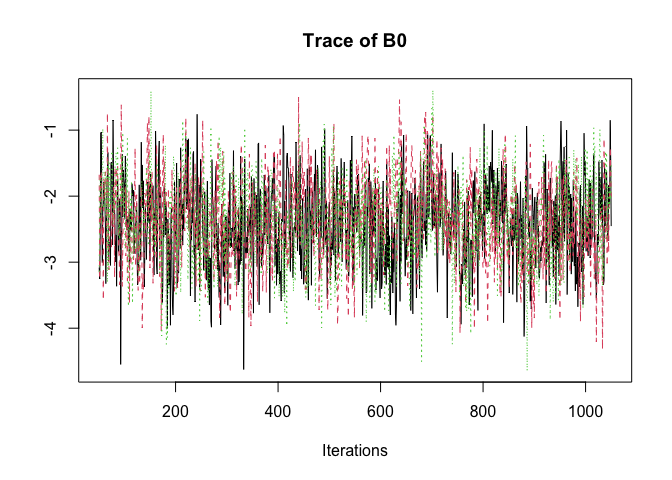
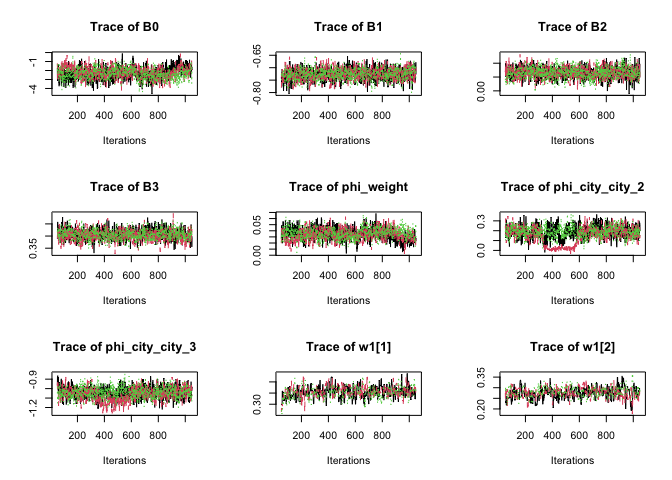
ss

diff --git a/README.md b/README.md
@@ -16,6 +16,8 @@ runjags package.
 
 <br> FGWQSR estimates parameters to the following model:
 
+<br>
+
 $$y_i \sim \text{Bernoulli}(\pi_i) $$
 $$\text{logit}(\pi_i) = c_0+ \sum\limits_{g = 1}^G \gamma_g \bigg( \sum\limits_{k = 1} ^{c_g} w_{g,k} \cdot q_{g,k,i}\bigg) + \sum_{r = 1}^R \phi_rz_{r,i} $$
 where
@@ -351,7 +353,7 @@ summary(fgwqsr_fit)
 #> 
 #> Significance Codes: <0.001 '***' <0.01 '**' <0.05 '*' <0.10 '.' 
 #> 
-#> Total runtime for FGWQSR:  1.21 minutes on 10 cores.
+#> Total runtime for FGWQSR:  1.2 minutes on 10 cores.
 ```
 
 <br> We can compare the true underlying group indices and chemical
@@ -520,7 +522,7 @@ summary(fgwqsr_fit_adj)
 #> 
 #> Significance Codes: <0.001 '***' <0.01 '**' <0.05 '*' <0.10 '.' 
 #> 
-#> Total runtime for FGWQSR:  1.13 minutes on 10 cores.
+#> Total runtime for FGWQSR:  1.15 minutes on 10 cores.
 ```
 
 <br>
@@ -600,7 +602,7 @@ bgwqsr_fit = bgwqsr(formula = mod_formula_adj,
 #> Calling 3 simulations using the parallel method...
 #> Following the progress of chain 1 (the program will wait for all chains
 #> to finish before continuing):
-#> Welcome to JAGS 4.3.2 (official binary) on Thu Jul 13 16:39:27 2023
+#> Welcome to JAGS 4.3.2 (official binary) on Thu Jul 13 16:53:43 2023
 #> JAGS is free software and comes with ABSOLUTELY NO WARRANTY
 #> Loading module: basemod: ok
 #> Loading module: bugs: ok
@@ -641,49 +643,49 @@ the summaries object from the bgwqsr model.
 ``` r
 bgwqsr_fit$model$summaries
 #>                      Lower95      Median    Upper95        Mean          SD
-#> B0              -3.66123e+00 -2.39290500 -1.1861800 -2.39739069 0.634468040
-#> B1              -7.72786e-01 -0.72645600 -0.6800990 -0.72660810 0.023277413
-#> B2               2.37607e-02  0.06537670  0.1003650  0.06536587 0.019642886
-#> B3               3.63499e-01  0.40572200  0.4474280  0.40561747 0.021839322
-#> phi_weight       1.89506e-02  0.03606285  0.0550746  0.03618030 0.009279348
-#> phi_city_city_2  7.34225e-02  0.18715100  0.3012290  0.18582929 0.058262250
-#> phi_city_city_3 -1.15691e+00 -1.04109500 -0.9208620 -1.04254740 0.060202532
-#> w1[1]            3.04382e-01  0.35634400  0.4028740  0.35519930 0.025022040
-#> w1[2]            2.24530e-01  0.27524900  0.3275130  0.27527586 0.027174372
-#> w1[3]            2.73493e-01  0.32465400  0.3750100  0.32459352 0.025632267
-#> w1[4]            1.42449e-03  0.01984735  0.0530367  0.02323464 0.016088007
-#> w1[5]            1.12253e-03  0.01720880  0.0528875  0.02169668 0.016733905
-#> w2[1]            3.67407e-05  0.06011960  0.4136620  0.11226925 0.141633116
-#> w2[2]            2.26175e-01  0.64955500  0.9632770  0.62196864 0.215645672
-#> w2[3]            3.07270e-04  0.06649090  0.4829810  0.13660496 0.159574279
-#> w2[4]            2.15090e-03  0.07107550  0.4630890  0.12915714 0.145145484
-#> w3[1]            2.20125e-01  0.31116300  0.4052840  0.31066550 0.047176347
-#> w3[2]            2.19036e-01  0.31893700  0.4000210  0.31852408 0.045626503
-#> w3[3]            2.54194e-01  0.34016300  0.4388580  0.34185267 0.048814994
-#> w3[4]            3.60342e-05  0.01048015  0.0532486  0.01632025 0.018750977
-#> w3[5]            4.91520e-04  0.00627269  0.0457712  0.01263749 0.015396609
-#>                 Mode        MCerr MC%ofSD SSeff        AC.10      psrf
-#> B0                NA 0.0194944981     3.1  1059  0.073421818 1.0007923
-#> B1                NA 0.0006149110     2.6  1433  0.009592373 1.0073064
-#> B2                NA 0.0005063518     2.6  1505  0.032182820 1.0016705
-#> B3                NA 0.0006025792     2.8  1314 -0.003453728 1.0031507
-#> phi_weight        NA 0.0002872937     3.1  1043  0.076869836 1.0007030
-#> phi_city_city_2   NA 0.0021934538     3.8   706  0.077124829 1.0014526
-#> phi_city_city_3   NA 0.0017505307     2.9  1183  0.016120407 0.9997214
-#> w1[1]             NA 0.0014826534     5.9   285  0.139924144 1.0098148
-#> w1[2]             NA 0.0016370561     6.0   276  0.254728423 1.1046637
-#> w1[3]             NA 0.0013094884     5.1   383  0.143430848 1.0142796
-#> w1[4]             NA 0.0028510016    17.7    32  0.824486353 1.3104306
-#> w1[5]             NA 0.0035531520    21.2    22  0.859320780 1.4968418
-#> w2[1]             NA 0.0309624037    21.9    21  0.826824935 1.7068957
-#> w2[2]             NA 0.0370243826    17.2    34  0.806995509 1.0722833
-#> w2[3]             NA 0.0260563107    16.3    38  0.805258053 1.1934215
-#> w2[4]             NA 0.0234176703    16.1    38  0.755691107 1.4542547
-#> w3[1]             NA 0.0034160290     7.2   191  0.286905730 1.0207991
-#> w3[2]             NA 0.0030011662     6.6   231  0.246041668 1.0043634
-#> w3[3]             NA 0.0032776357     6.7   222  0.246060417 1.0017560
-#> w3[4]             NA 0.0028892295    15.4    42  0.818470479 1.4263795
-#> w3[5]             NA 0.0033045455    21.5    22  0.862353513 1.1111806
+#> B0              -3.651920000 -2.27815500 -1.0700100 -2.28266497 0.660029173
+#> B1              -0.771817000 -0.72599650 -0.6790350 -0.72587763 0.023888107
+#> B2               0.027681000  0.06506000  0.1070880  0.06531566 0.020266320
+#> B3               0.363868000  0.40557950  0.4487600  0.40568180 0.021959541
+#> phi_weight       0.017702300  0.03438805  0.0553166  0.03456578 0.009658224
+#> phi_city_city_2  0.000252172  0.18119350  0.2865510  0.17389172 0.073724241
+#> phi_city_city_3 -1.182230000 -1.04730500 -0.9247720 -1.04811690 0.065321807
+#> w1[1]            0.301526000  0.35394100  0.4043110  0.35447934 0.025110695
+#> w1[2]            0.228792000  0.27677100  0.3239400  0.27663721 0.024087736
+#> w1[3]            0.272610000  0.32303200  0.3656150  0.32342540 0.024922922
+#> w1[4]            0.002924070  0.02513750  0.0519143  0.02520196 0.014890445
+#> w1[5]            0.003806210  0.01846310  0.0394350  0.02025609 0.011317820
+#> w2[1]            0.005183060  0.14507250  0.5597240  0.19835967 0.169179303
+#> w2[2]            0.201965000  0.58669200  0.9251560  0.57358199 0.204893546
+#> w2[3]            0.000759610  0.06642060  0.3984120  0.12355657 0.137690018
+#> w2[4]            0.001652330  0.05036820  0.3730860  0.10450176 0.125653074
+#> w3[1]            0.213352000  0.30505950  0.3988060  0.30532584 0.047157307
+#> w3[2]            0.229635000  0.31602700  0.4019810  0.31611886 0.044047605
+#> w3[3]            0.247347000  0.33971300  0.4217930  0.33934420 0.044837968
+#> w3[4]            0.000582802  0.01748110  0.0554424  0.02049139 0.018384662
+#> w3[5]            0.000380900  0.00970993  0.0686573  0.01871971 0.021925203
+#>                 Mode        MCerr MC%ofSD SSeff        AC.10     psrf
+#> B0                NA 0.0391454326     5.9   284  0.165187016 1.012575
+#> B1                NA 0.0006818782     2.9  1227  0.002752647 1.002315
+#> B2                NA 0.0005166076     2.5  1539  0.031775029 1.001713
+#> B3                NA 0.0005955145     2.7  1360 -0.007846648 1.007213
+#> phi_weight        NA 0.0005773885     6.0   280  0.166251889 1.009272
+#> phi_city_city_2   NA 0.0034667307     4.7   452  0.276555205 1.111936
+#> phi_city_city_3   NA 0.0023102811     3.5   799  0.087299442 1.030917
+#> w1[1]             NA 0.0012737224     5.1   389  0.112090940 1.011909
+#> w1[2]             NA 0.0013039205     5.4   341  0.122131798 1.014405
+#> w1[3]             NA 0.0013552112     5.4   338  0.085278262 1.026837
+#> w1[4]             NA 0.0024195588    16.2    38  0.774753459 1.200346
+#> w1[5]             NA 0.0016464006    14.5    47  0.735827443 1.186657
+#> w2[1]             NA 0.0260361292    15.4    42  0.767105172 1.175408
+#> w2[2]             NA 0.0264447075    12.9    60  0.676737610 1.610980
+#> w2[3]             NA 0.0250080142    18.2    30  0.807414212 1.115628
+#> w2[4]             NA 0.0195048118    15.5    42  0.764419086 1.436253
+#> w3[1]             NA 0.0031495200     6.7   224  0.230762019 1.025377
+#> w3[2]             NA 0.0028722974     6.5   235  0.249815408 1.007689
+#> w3[3]             NA 0.0026811067     6.0   280  0.133559098 1.048325
+#> w3[4]             NA 0.0035710523    19.4    27  0.817929266 1.200438
+#> w3[5]             NA 0.0041788292    19.1    28  0.826218678 1.494243
 ```
 
 We can analyze the mixing of the markov chains and corresponding
@@ -691,28 +693,32 @@ autocorrelation plots using functions from the coda package. We will
 output only the first few plots.
 
 ``` r
+par(mfrow = c(3,3))
 coda::traceplot(bgwqsr_fit$model$mcmc) # traceplot
 ```
 
-<img src="man/figures/README-unnamed-chunk-18-1.png" width="100%" /><img src="man/figures/README-unnamed-chunk-18-2.png" width="100%" /><img src="man/figures/README-unnamed-chunk-18-3.png" width="100%" /><img src="man/figures/README-unnamed-chunk-18-4.png" width="100%" /><img src="man/figures/README-unnamed-chunk-18-5.png" width="100%" /><img src="man/figures/README-unnamed-chunk-18-6.png" width="100%" /><img src="man/figures/README-unnamed-chunk-18-7.png" width="100%" /><img src="man/figures/README-unnamed-chunk-18-8.png" width="100%" /><img src="man/figures/README-unnamed-chunk-18-9.png" width="100%" /><img src="man/figures/README-unnamed-chunk-18-10.png" width="100%" /><img src="man/figures/README-unnamed-chunk-18-11.png" width="100%" /><img src="man/figures/README-unnamed-chunk-18-12.png" width="100%" /><img src="man/figures/README-unnamed-chunk-18-13.png" width="100%" /><img src="man/figures/README-unnamed-chunk-18-14.png" width="100%" /><img src="man/figures/README-unnamed-chunk-18-15.png" width="100%" /><img src="man/figures/README-unnamed-chunk-18-16.png" width="100%" /><img src="man/figures/README-unnamed-chunk-18-17.png" width="100%" /><img src="man/figures/README-unnamed-chunk-18-18.png" width="100%" /><img src="man/figures/README-unnamed-chunk-18-19.png" width="100%" /><img src="man/figures/README-unnamed-chunk-18-20.png" width="100%" /><img src="man/figures/README-unnamed-chunk-18-21.png" width="100%" />
+<img src="man/figures/README-unnamed-chunk-18-1.png" width="100%" /><img src="man/figures/README-unnamed-chunk-18-2.png" width="100%" /><img src="man/figures/README-unnamed-chunk-18-3.png" width="100%" />
 
 ``` r
+par(mfrow = c(3,3))
 coda::autocorr.plot(bgwqsr_fit$model$mcmc, auto.layout = F, ask = F) # autocorrelation plot
 ```
 
-<img src="man/figures/README-unnamed-chunk-19-1.png" width="100%" /><img src="man/figures/README-unnamed-chunk-19-2.png" width="100%" /><img src="man/figures/README-unnamed-chunk-19-3.png" width="100%" /><img src="man/figures/README-unnamed-chunk-19-4.png" width="100%" /><img src="man/figures/README-unnamed-chunk-19-5.png" width="100%" /><img src="man/figures/README-unnamed-chunk-19-6.png" width="100%" /><img src="man/figures/README-unnamed-chunk-19-7.png" width="100%" /><img src="man/figures/README-unnamed-chunk-19-8.png" width="100%" /><img src="man/figures/README-unnamed-chunk-19-9.png" width="100%" /><img src="man/figures/README-unnamed-chunk-19-10.png" width="100%" /><img src="man/figures/README-unnamed-chunk-19-11.png" width="100%" /><img src="man/figures/README-unnamed-chunk-19-12.png" width="100%" /><img src="man/figures/README-unnamed-chunk-19-13.png" width="100%" /><img src="man/figures/README-unnamed-chunk-19-14.png" width="100%" /><img src="man/figures/README-unnamed-chunk-19-15.png" width="100%" /><img src="man/figures/README-unnamed-chunk-19-16.png" width="100%" /><img src="man/figures/README-unnamed-chunk-19-17.png" width="100%" /><img src="man/figures/README-unnamed-chunk-19-18.png" width="100%" /><img src="man/figures/README-unnamed-chunk-19-19.png" width="100%" /><img src="man/figures/README-unnamed-chunk-19-20.png" width="100%" /><img src="man/figures/README-unnamed-chunk-19-21.png" width="100%" /><img src="man/figures/README-unnamed-chunk-19-22.png" width="100%" /><img src="man/figures/README-unnamed-chunk-19-23.png" width="100%" /><img src="man/figures/README-unnamed-chunk-19-24.png" width="100%" /><img src="man/figures/README-unnamed-chunk-19-25.png" width="100%" /><img src="man/figures/README-unnamed-chunk-19-26.png" width="100%" /><img src="man/figures/README-unnamed-chunk-19-27.png" width="100%" /><img src="man/figures/README-unnamed-chunk-19-28.png" width="100%" /><img src="man/figures/README-unnamed-chunk-19-29.png" width="100%" /><img src="man/figures/README-unnamed-chunk-19-30.png" width="100%" /><img src="man/figures/README-unnamed-chunk-19-31.png" width="100%" /><img src="man/figures/README-unnamed-chunk-19-32.png" width="100%" /><img src="man/figures/README-unnamed-chunk-19-33.png" width="100%" /><img src="man/figures/README-unnamed-chunk-19-34.png" width="100%" /><img src="man/figures/README-unnamed-chunk-19-35.png" width="100%" /><img src="man/figures/README-unnamed-chunk-19-36.png" width="100%" /><img src="man/figures/README-unnamed-chunk-19-37.png" width="100%" /><img src="man/figures/README-unnamed-chunk-19-38.png" width="100%" /><img src="man/figures/README-unnamed-chunk-19-39.png" width="100%" /><img src="man/figures/README-unnamed-chunk-19-40.png" width="100%" /><img src="man/figures/README-unnamed-chunk-19-41.png" width="100%" /><img src="man/figures/README-unnamed-chunk-19-42.png" width="100%" /><img src="man/figures/README-unnamed-chunk-19-43.png" width="100%" /><img src="man/figures/README-unnamed-chunk-19-44.png" width="100%" /><img src="man/figures/README-unnamed-chunk-19-45.png" width="100%" /><img src="man/figures/README-unnamed-chunk-19-46.png" width="100%" /><img src="man/figures/README-unnamed-chunk-19-47.png" width="100%" /><img src="man/figures/README-unnamed-chunk-19-48.png" width="100%" /><img src="man/figures/README-unnamed-chunk-19-49.png" width="100%" /><img src="man/figures/README-unnamed-chunk-19-50.png" width="100%" /><img src="man/figures/README-unnamed-chunk-19-51.png" width="100%" /><img src="man/figures/README-unnamed-chunk-19-52.png" width="100%" /><img src="man/figures/README-unnamed-chunk-19-53.png" width="100%" /><img src="man/figures/README-unnamed-chunk-19-54.png" width="100%" /><img src="man/figures/README-unnamed-chunk-19-55.png" width="100%" /><img src="man/figures/README-unnamed-chunk-19-56.png" width="100%" /><img src="man/figures/README-unnamed-chunk-19-57.png" width="100%" /><img src="man/figures/README-unnamed-chunk-19-58.png" width="100%" /><img src="man/figures/README-unnamed-chunk-19-59.png" width="100%" /><img src="man/figures/README-unnamed-chunk-19-60.png" width="100%" /><img src="man/figures/README-unnamed-chunk-19-61.png" width="100%" /><img src="man/figures/README-unnamed-chunk-19-62.png" width="100%" /><img src="man/figures/README-unnamed-chunk-19-63.png" width="100%" />
+<img src="man/figures/README-unnamed-chunk-19-1.png" width="100%" /><img src="man/figures/README-unnamed-chunk-19-2.png" width="100%" /><img src="man/figures/README-unnamed-chunk-19-3.png" width="100%" /><img src="man/figures/README-unnamed-chunk-19-4.png" width="100%" /><img src="man/figures/README-unnamed-chunk-19-5.png" width="100%" /><img src="man/figures/README-unnamed-chunk-19-6.png" width="100%" /><img src="man/figures/README-unnamed-chunk-19-7.png" width="100%" />
 
 ``` r
+par(mfrow = c(3,3))
 coda::densplot(bgwqsr_fit$model$mcmc) # posterior density plots
 ```
 
-<img src="man/figures/README-unnamed-chunk-20-1.png" width="100%" /><img src="man/figures/README-unnamed-chunk-20-2.png" width="100%" /><img src="man/figures/README-unnamed-chunk-20-3.png" width="100%" /><img src="man/figures/README-unnamed-chunk-20-4.png" width="100%" /><img src="man/figures/README-unnamed-chunk-20-5.png" width="100%" /><img src="man/figures/README-unnamed-chunk-20-6.png" width="100%" /><img src="man/figures/README-unnamed-chunk-20-7.png" width="100%" /><img src="man/figures/README-unnamed-chunk-20-8.png" width="100%" /><img src="man/figures/README-unnamed-chunk-20-9.png" width="100%" /><img src="man/figures/README-unnamed-chunk-20-10.png" width="100%" /><img src="man/figures/README-unnamed-chunk-20-11.png" width="100%" /><img src="man/figures/README-unnamed-chunk-20-12.png" width="100%" /><img src="man/figures/README-unnamed-chunk-20-13.png" width="100%" /><img src="man/figures/README-unnamed-chunk-20-14.png" width="100%" /><img src="man/figures/README-unnamed-chunk-20-15.png" width="100%" /><img src="man/figures/README-unnamed-chunk-20-16.png" width="100%" /><img src="man/figures/README-unnamed-chunk-20-17.png" width="100%" /><img src="man/figures/README-unnamed-chunk-20-18.png" width="100%" /><img src="man/figures/README-unnamed-chunk-20-19.png" width="100%" /><img src="man/figures/README-unnamed-chunk-20-20.png" width="100%" /><img src="man/figures/README-unnamed-chunk-20-21.png" width="100%" />
+<img src="man/figures/README-unnamed-chunk-20-1.png" width="100%" /><img src="man/figures/README-unnamed-chunk-20-2.png" width="100%" /><img src="man/figures/README-unnamed-chunk-20-3.png" width="100%" />
 
 ``` r
+par(mfrow = c(3,3))
 plot(bgwqsr_fit$model$mcmc, auto.layout = F) # combines traceplot() and densplot()
 ```
 
-<img src="man/figures/README-unnamed-chunk-21-1.png" width="100%" /><img src="man/figures/README-unnamed-chunk-21-2.png" width="100%" /><img src="man/figures/README-unnamed-chunk-21-3.png" width="100%" /><img src="man/figures/README-unnamed-chunk-21-4.png" width="100%" /><img src="man/figures/README-unnamed-chunk-21-5.png" width="100%" /><img src="man/figures/README-unnamed-chunk-21-6.png" width="100%" /><img src="man/figures/README-unnamed-chunk-21-7.png" width="100%" /><img src="man/figures/README-unnamed-chunk-21-8.png" width="100%" /><img src="man/figures/README-unnamed-chunk-21-9.png" width="100%" /><img src="man/figures/README-unnamed-chunk-21-10.png" width="100%" /><img src="man/figures/README-unnamed-chunk-21-11.png" width="100%" /><img src="man/figures/README-unnamed-chunk-21-12.png" width="100%" /><img src="man/figures/README-unnamed-chunk-21-13.png" width="100%" /><img src="man/figures/README-unnamed-chunk-21-14.png" width="100%" /><img src="man/figures/README-unnamed-chunk-21-15.png" width="100%" /><img src="man/figures/README-unnamed-chunk-21-16.png" width="100%" /><img src="man/figures/README-unnamed-chunk-21-17.png" width="100%" /><img src="man/figures/README-unnamed-chunk-21-18.png" width="100%" /><img src="man/figures/README-unnamed-chunk-21-19.png" width="100%" /><img src="man/figures/README-unnamed-chunk-21-20.png" width="100%" /><img src="man/figures/README-unnamed-chunk-21-21.png" width="100%" /><img src="man/figures/README-unnamed-chunk-21-22.png" width="100%" /><img src="man/figures/README-unnamed-chunk-21-23.png" width="100%" /><img src="man/figures/README-unnamed-chunk-21-24.png" width="100%" /><img src="man/figures/README-unnamed-chunk-21-25.png" width="100%" /><img src="man/figures/README-unnamed-chunk-21-26.png" width="100%" /><img src="man/figures/README-unnamed-chunk-21-27.png" width="100%" /><img src="man/figures/README-unnamed-chunk-21-28.png" width="100%" /><img src="man/figures/README-unnamed-chunk-21-29.png" width="100%" /><img src="man/figures/README-unnamed-chunk-21-30.png" width="100%" /><img src="man/figures/README-unnamed-chunk-21-31.png" width="100%" /><img src="man/figures/README-unnamed-chunk-21-32.png" width="100%" /><img src="man/figures/README-unnamed-chunk-21-33.png" width="100%" /><img src="man/figures/README-unnamed-chunk-21-34.png" width="100%" /><img src="man/figures/README-unnamed-chunk-21-35.png" width="100%" /><img src="man/figures/README-unnamed-chunk-21-36.png" width="100%" /><img src="man/figures/README-unnamed-chunk-21-37.png" width="100%" /><img src="man/figures/README-unnamed-chunk-21-38.png" width="100%" /><img src="man/figures/README-unnamed-chunk-21-39.png" width="100%" /><img src="man/figures/README-unnamed-chunk-21-40.png" width="100%" /><img src="man/figures/README-unnamed-chunk-21-41.png" width="100%" /><img src="man/figures/README-unnamed-chunk-21-42.png" width="100%" />
+<img src="man/figures/README-unnamed-chunk-21-1.png" width="100%" /><img src="man/figures/README-unnamed-chunk-21-2.png" width="100%" /><img src="man/figures/README-unnamed-chunk-21-3.png" width="100%" /><img src="man/figures/README-unnamed-chunk-21-4.png" width="100%" /><img src="man/figures/README-unnamed-chunk-21-5.png" width="100%" />
 
 Finally, we can look at plots for the posterior credible intervals for
 group indices, single chemical weights, and corresponding posterior
